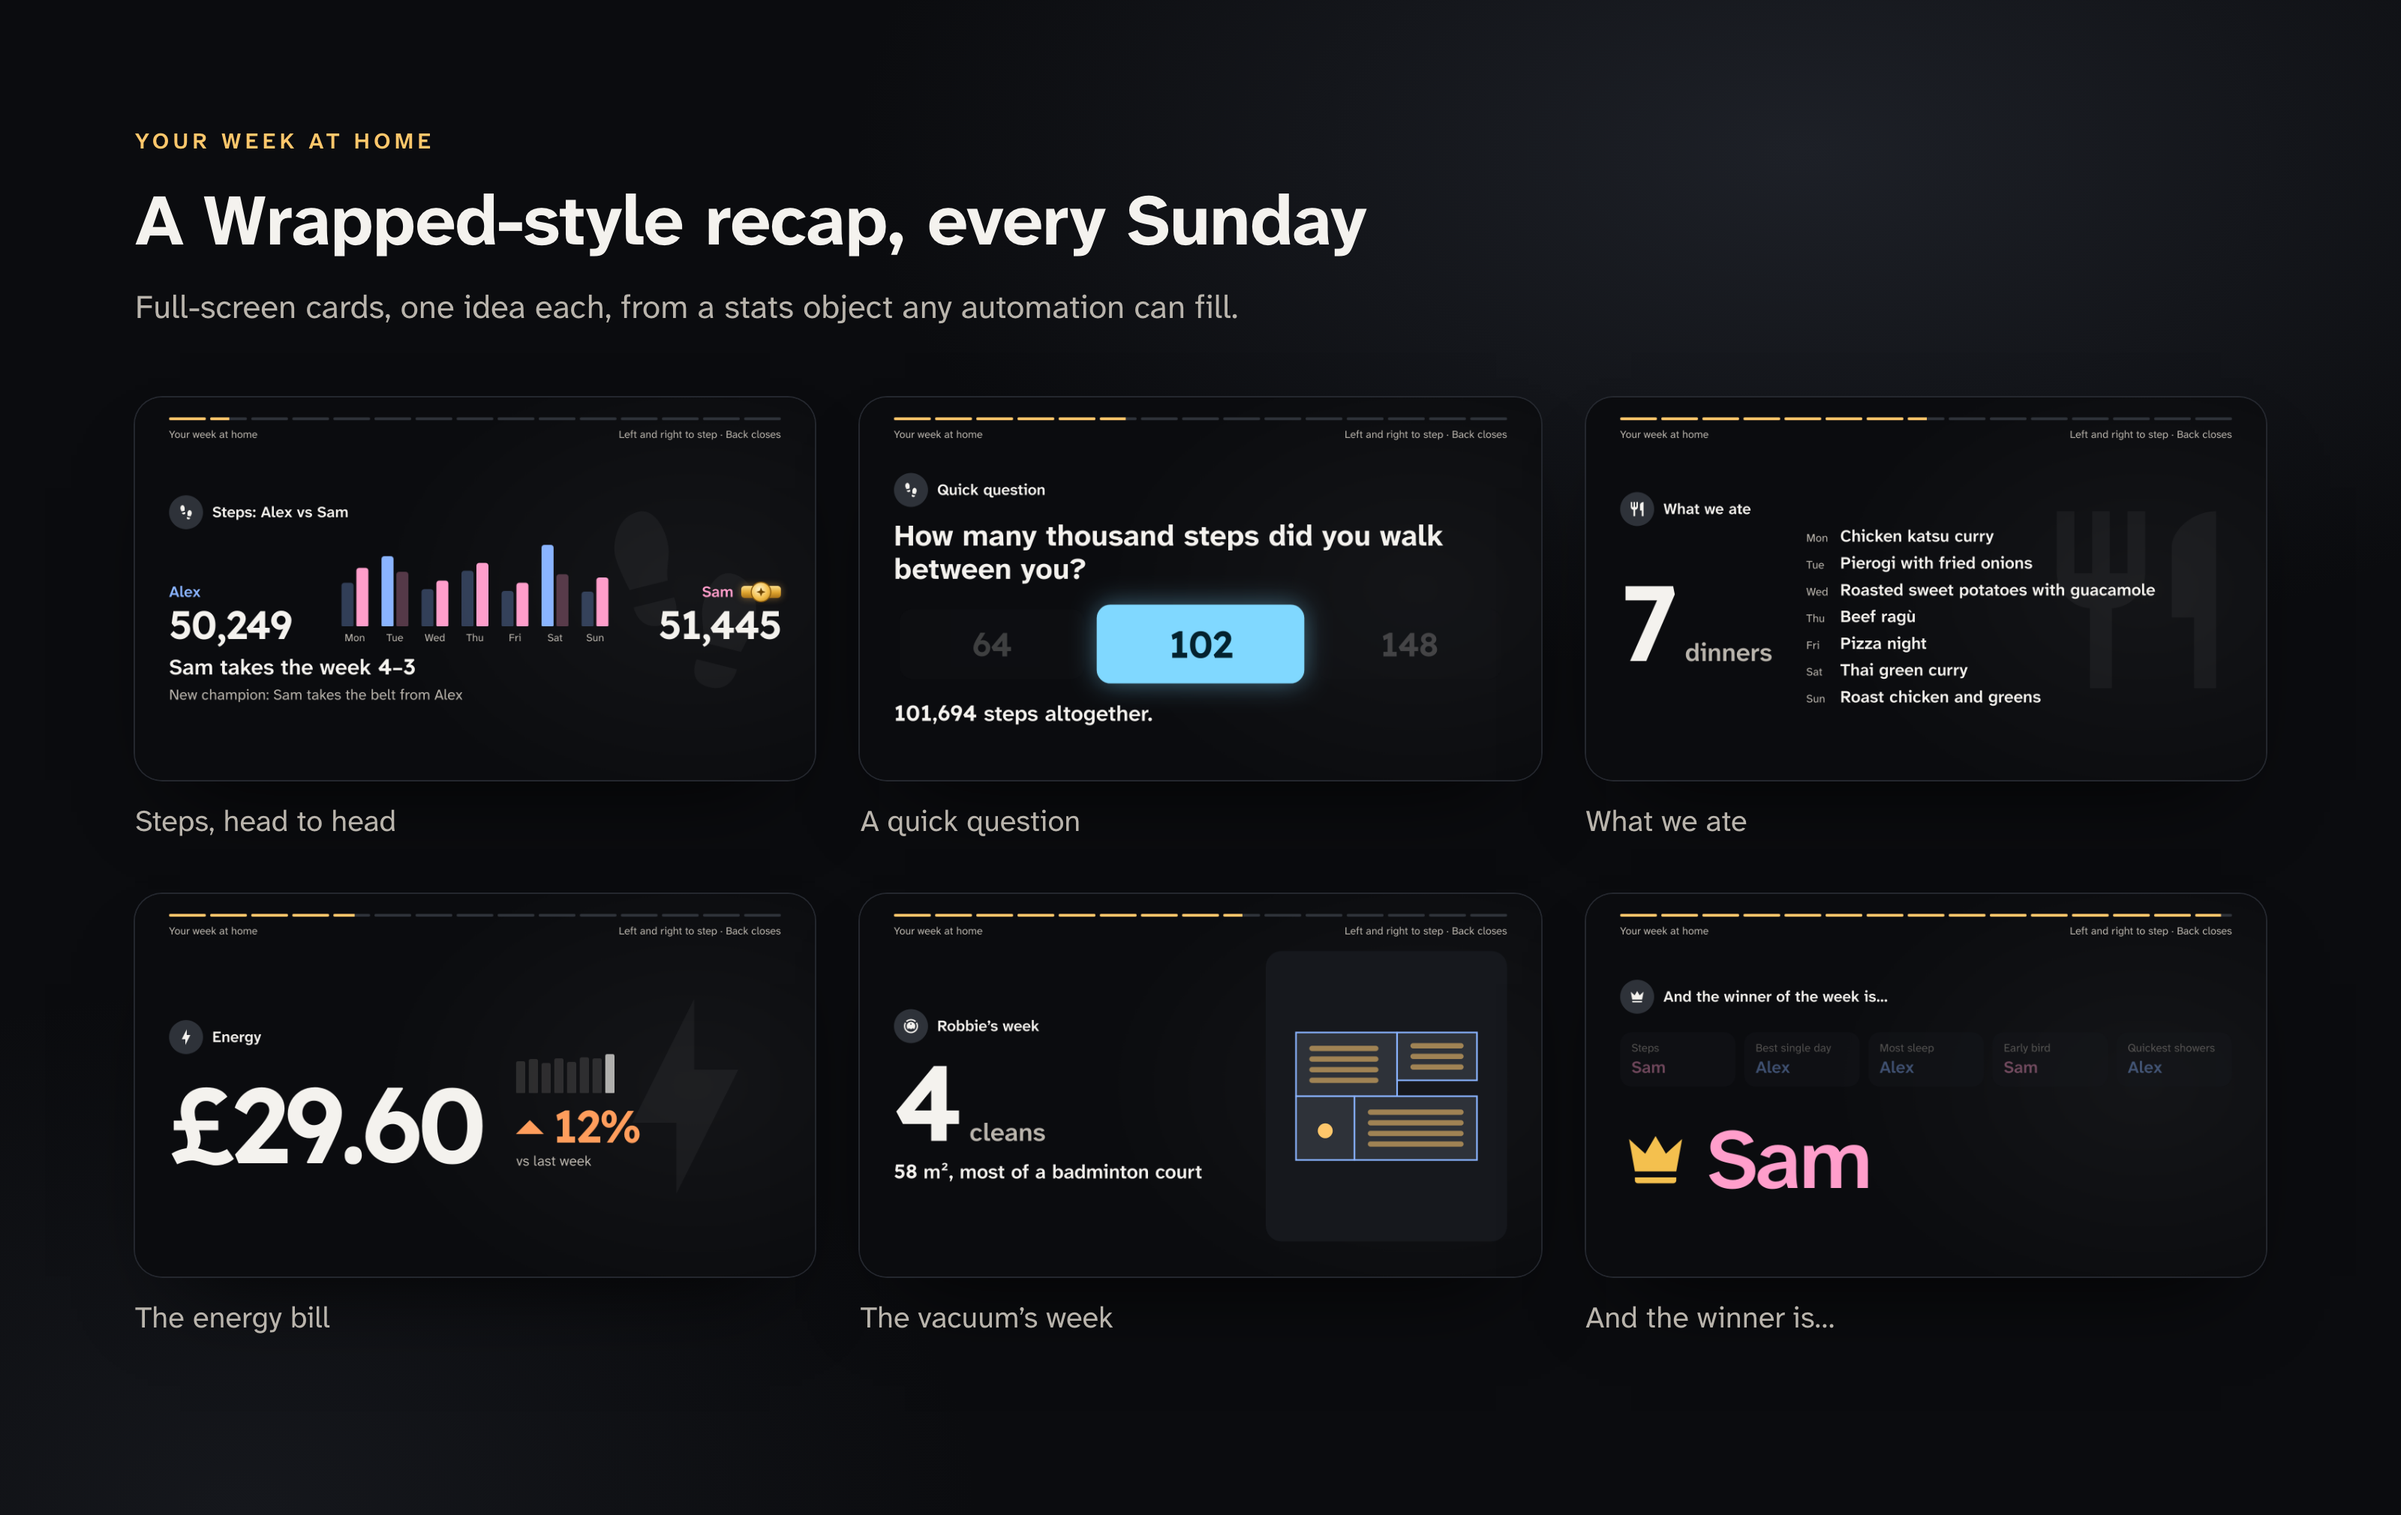
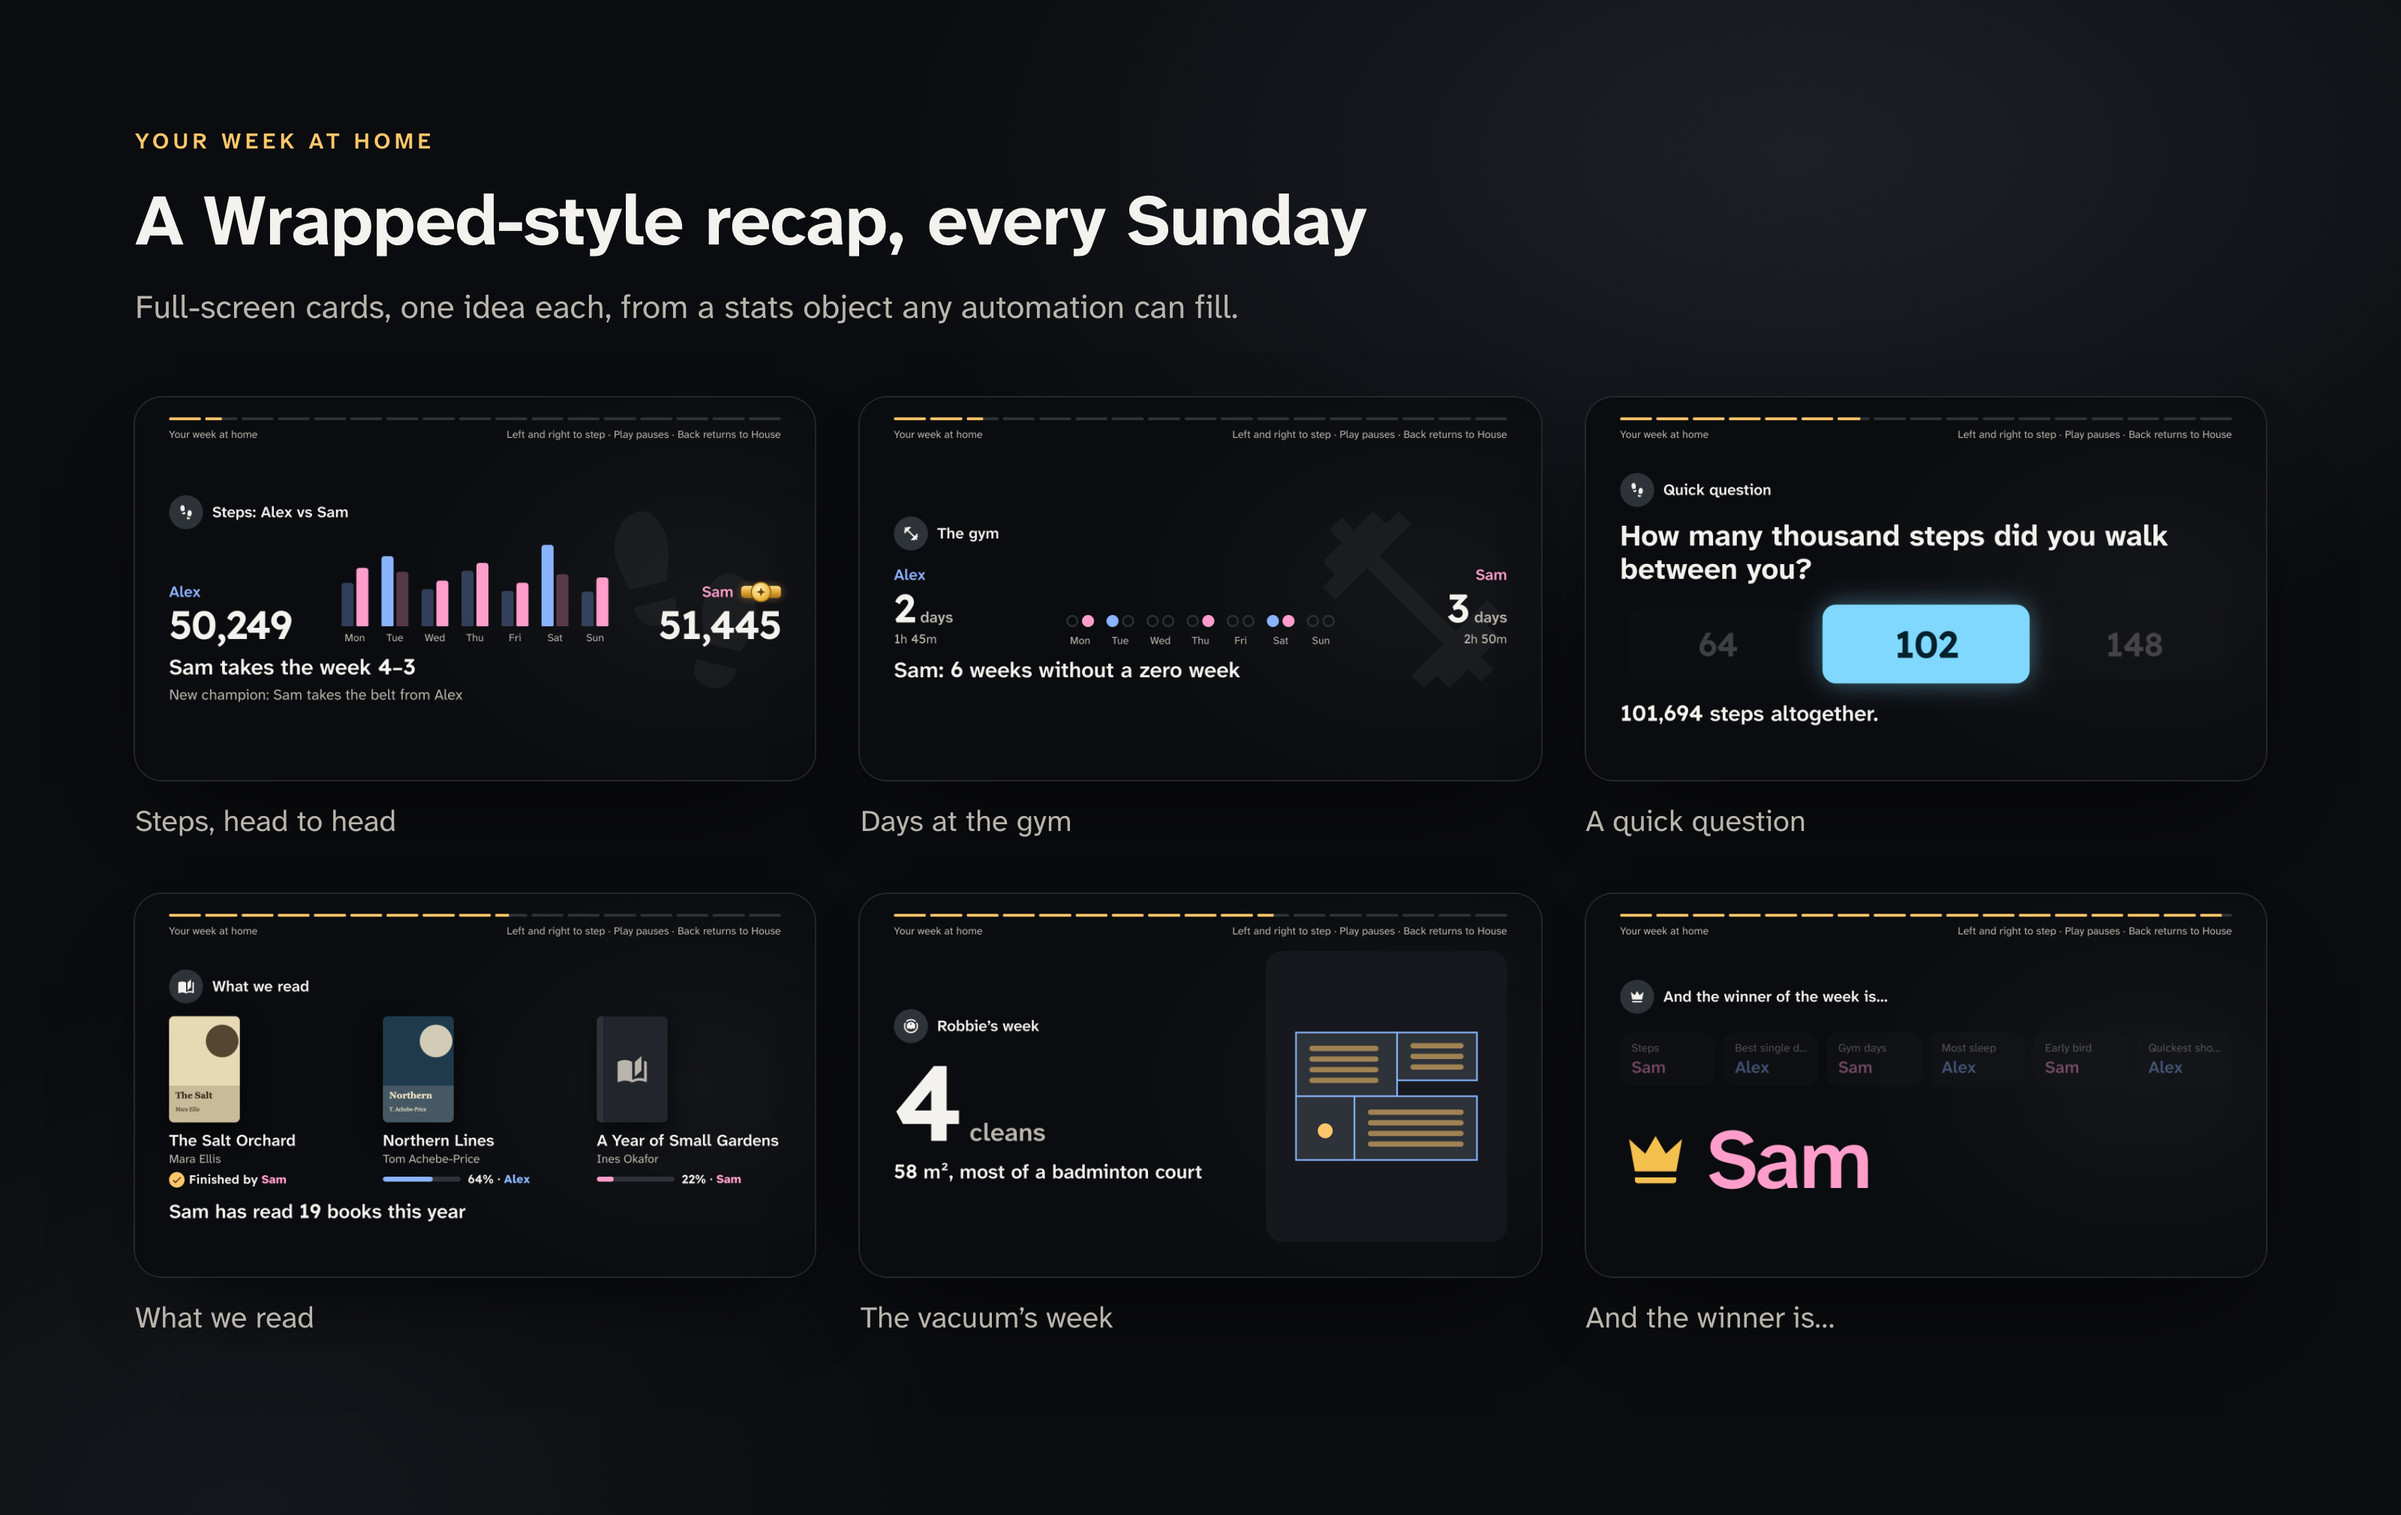
README: the recap picture shows the gym and reading cards
tools/showcase/render.js picks the steps duel, the gym, the quiz answered, what we read, the vacuum's week and the
winner revealed from the demo recap's frames (the new cards moved the old picks).

diff --git a/tools/showcase/render.js b/tools/showcase/render.js
@@ -38,8 +38,8 @@ const hero = `${base}
   </div>
 </div>`;
 
-const cards = [['recap-01.png', 'Steps, head to head'], ['recap-06.png', 'A quick question'], ['recap-08.png', 'What we ate'],
-  ['recap-04.png', 'The energy bill'], ['recap-09.png', 'The vacuum’s week'], ['recap-17.png', 'And the winner is…']];
+const cards = [['recap-01.png', 'Steps, head to head'], ['recap-02.png', 'Days at the gym'], ['recap-07.png', 'A quick question'],
+  ['recap-10.png', 'What we read'], ['recap-11.png', 'The vacuum’s week'], ['recap-19.png', 'And the winner is…']];
 const grid = `${base}
 <div class="canvas" style="width:1600px;height:1010px;padding:84px 90px">
   <div class="eyebrow">Your week at home</div>

diff --git a/README.md b/README.md
@@ -27,7 +27,7 @@ arrow keys and Enter; add `&recap` to the URL for the week recap, or `&theme=aft
   reading (with their covers), a quiz, a guess-the-week reveal and a winner with a drumroll. The cards come from one JSON object that any automation can produce; see
   [`docs/recap-stats.md`](docs/recap-stats.md). An automation can start it on the TV with nobody at the remote.
 
-<img src="docs/images/recap.png" alt="Six recap cards: a steps duel, a quiz, the week's dinners, the energy bill, the robot vacuum's week and the winner" width="100%">
+<img src="docs/images/recap.png" alt="Six recap cards: a steps duel, the gym days, a quiz, the books read, the robot vacuum's week and the winner" width="100%">
 
 ## Requirements
 
